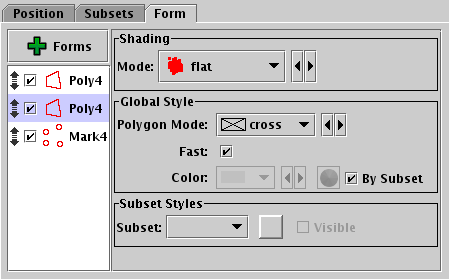
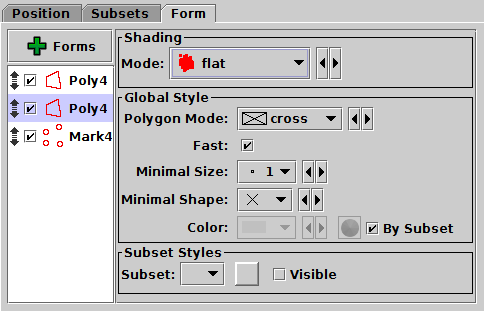
ttools: add polygon replacement marker capability
The Area and Quad plots now have the option to paint a configurable
replacement marker instead of the polygon itself if the polygon
would be too small to see.

Changed region(s): [[0.0, 0.0, 1.0, 1.0]]

diff --git a/ttools/src/main/uk/ac/starlink/ttools/plot2/layer/PolygonOutliner.java b/ttools/src/main/uk/ac/starlink/ttools/plot2/layer/PolygonOutliner.java
@@ -8,6 +8,7 @@ import java.awt.geom.Point2D;
 import java.util.HashMap;
 import java.util.Map;
 import javax.swing.Icon;
+import uk.ac.starlink.ttools.plot.MarkShape;
 import uk.ac.starlink.ttools.plot2.AuxReader;
 import uk.ac.starlink.ttools.plot2.AuxScale;
 import uk.ac.starlink.ttools.plot2.DataGeom;
@@ -16,6 +17,9 @@ import uk.ac.starlink.ttools.plot2.Glyph;
 import uk.ac.starlink.ttools.plot2.PlotUtil;
 import uk.ac.starlink.ttools.plot2.Span;
 import uk.ac.starlink.ttools.plot2.Surface;
+import uk.ac.starlink.ttools.plot2.config.ConfigKey;
+import uk.ac.starlink.ttools.plot2.config.ConfigMeta;
+import uk.ac.starlink.ttools.plot2.config.StyleKeys;
 import uk.ac.starlink.ttools.plot2.data.Area;
 import uk.ac.starlink.ttools.plot2.data.AreaCoord;
 import uk.ac.starlink.ttools.plot2.data.Coord;
@@ -45,7 +49,47 @@ public class PolygonOutliner extends PixOutliner {
 
     private final PolygonMode.Glypher polyGlypher_;
     private final VertexReaderFactory vrfact_;
+    private final int minSize_;
+    private final MarkShape minShape_;
+    private final Glyph pointGlyph_;
     private final Icon icon_;
+
+    /** Config key for the replacement marker threshold size. */
+    public static final ConfigKey<Integer> MINSIZE_KEY =
+        StyleKeys.createMarkSizeKey( 
+            new ConfigMeta( "minsize", "Minimal Size" )
+           .setStringUsage( "<pixels>" )
+           .setShortDescription( "Size of small polygon representation "
+                               + "in pixels" )
+           .setXmlDescription( new String[] {
+                "<p>Defines a threshold size in pixels below which,",
+                "instead of the polygon defined by the other parameters,",
+                "a replacement marker will be painted instead.",
+                "If this is set to zero, then only the shape itself",
+                "will be plotted, but if it is small it may appear as",
+                "only a single pixel.",
+                "By setting a larger value, you can ensure that",
+                "the position of even small polygons is easily visible,",
+                "at the expense of giving them an artificial shape and size.",
+                "This value also defines the size of the replacement markers.",
+                "</p>",
+            } ),
+            1 );
+
+    /** Config key for the replacement marker shape. */
+    public static final ConfigKey<MarkShape> MINSHAPE_KEY =
+        StyleKeys.createMarkShapeKey(
+            new ConfigMeta( "minshape", "Minimal Shape" )
+           .setShortDescription( "Marker shape for very small shapes" )
+           .setXmlDescription( new String[] {
+                "<p>Defines the shape of markers plotted instead of",
+                "the actual polygon shape,",
+                "for polygons that are smaller than the size threshold",
+                "defined by",
+                "<code>" + MINSIZE_KEY.getMeta().getShortName() + "</code>.",
+                "</p>",
+            } ),
+            MarkShape.CROXX );
 
     /* Set up lookup tables for plotting circles. */
     private static final int NVERTEX_CIRCLE = 36;
@@ -81,11 +125,17 @@ public class PolygonOutliner extends PixOutliner {
      * @param  polyGlypher  object that knows how to paint a polygon
      * @param  vrfact   object that knows how to get vertex positions from
      *                  a data tuple
+     * @param  minSize  threshold size for replacement markers
+     * @param  minShape  shape for replacement markers
      */
     private PolygonOutliner( PolygonMode.Glypher polyGlypher,
-                             VertexReaderFactory vrfact ) {
+                             VertexReaderFactory vrfact,
+                             int minSize, MarkShape minShape ) {
         polyGlypher_ = polyGlypher;
         vrfact_ = vrfact;
+        minSize_ = minSize;
+        minShape_ = minShape;
+        pointGlyph_ = MarkForm.createMarkGlyph( minShape, minSize, true );
         icon_ = new MultiPosIcon( 4 ) {
             protected void paintPositions( Graphics g, Point[] positions ) {
                 int np = positions.length;
@@ -123,7 +173,6 @@ public class PolygonOutliner extends PixOutliner {
         final double[] dpos = new double[ ndim ];
         final Point2D.Double gpos = new Point2D.Double();
         final Point igpos = new Point();
-        final Glyph pointGlyph = XYShape.POINT;
         return new ShapePainter() {
             public void paintPoint( Tuple tuple, Color color, Paper paper ) {
                 VertexData vdata = vertReader.readVertexData( tuple );
@@ -231,9 +280,12 @@ public class PolygonOutliner extends PixOutliner {
                  * Otherwise, draw it properly. */
                 if ( gxMax >= bxMin && gxMin <= bxMax &&
                      gyMax >= byMin && gyMin <= byMax ) {
-                    if ( gxMin == gxMax && gyMin == gyMax ) {
-                        paperType.placeGlyph( paper, gxMin, gyMin,
-                                              pointGlyph, color );
+                    if ( gxMax - gxMin <= minSize_ &&
+                         gyMax - gyMin <= minSize_ ) {
+                        int gx = ( gxMax + gxMin ) / 2;
+                        int gy = ( gyMax + gyMin ) / 2;
+                        paperType.placeGlyph( paper, gx, gy,
+                                              pointGlyph_, color );
                     }
                     else {
                         polyGlypher_.placeGlyphs2D( paperType, paper,
@@ -258,7 +310,6 @@ public class PolygonOutliner extends PixOutliner {
         final double[] dpos = new double[ ndim ];
         final GPoint3D gpos = new GPoint3D();
         final Point igpos = new Point();
-        final Glyph pointGlyph = XYShape.POINT;
         return new ShapePainter() {
             public void paintPoint( Tuple tuple, Color color, Paper paper ) {
                 VertexData vdata = vertReader.readVertexData( tuple );
@@ -347,9 +398,12 @@ public class PolygonOutliner extends PixOutliner {
                  * if it's a point. */
                 if ( gxMax >= bxMin && gxMin <= bxMax &&
                      gyMax >= byMin && gyMin <= byMax ) {
-                    if ( gxMin == gxMax && gyMin == gyMax ) {
-                        paperType.placeGlyph( paper, gxMin, gyMin, gz,
-                                              pointGlyph, color );
+                    if ( gxMax - gxMin <= minSize_ &&                  
+                         gyMax - gyMin <= minSize_ ) {
+                        int gx = ( gxMax + gxMin ) / 2;
+                        int gy = ( gyMax + gyMin ) / 2;
+                        paperType.placeGlyph( paper, gx, gy, gz,
+                                              pointGlyph_, color );
                     }
                     else {
                         polyGlypher_.placeGlyphs3D( paperType, paper,
@@ -366,6 +420,8 @@ public class PolygonOutliner extends PixOutliner {
         int code = 434482;
         code = 23 * code + polyGlypher_.hashCode();
         code = 23 * code + vrfact_.hashCode();
+        code = 23 * code + minSize_;
+        code = 23 * code + minShape_.hashCode();
         return code;
     }
 
@@ -374,7 +430,9 @@ public class PolygonOutliner extends PixOutliner {
         if ( o instanceof PolygonOutliner ) {
             PolygonOutliner other = (PolygonOutliner) o;
             return this.polyGlypher_.equals( other.polyGlypher_ )
-                && this.vrfact_.equals( other.vrfact_ );
+                && this.vrfact_.equals( other.vrfact_ )
+                && this.minSize_ == other.minSize_
+                && this.minShape_.equals( other.minShape_ );
         }
         else {
             return false;
@@ -386,12 +444,16 @@ public class PolygonOutliner extends PixOutliner {
      *
      * @param  np  number of vertices
      * @param  polyGlypher  polygon painter
+     * @param  minSize  threshold size for replacement markers
+     * @param  minShape  shape for replacement markers
      * @return  outliner
      */
     public static PolygonOutliner
-            createFixedOutliner( int np, PolygonMode.Glypher polyGlypher ) {
+            createFixedOutliner( int np, PolygonMode.Glypher polyGlypher,
+                                 int minSize, MarkShape minShape ) {
         return new PolygonOutliner( polyGlypher,
-                                    new FixedVertexReaderFactory( np ) );
+                                    new FixedVertexReaderFactory( np ),
+                                    minSize, minShape );
     }
 
     /**
@@ -400,14 +462,18 @@ public class PolygonOutliner extends PixOutliner {
      * @param  coord  coordinate for reading area objects
      * @param  icArea   coordinate index in tuple for area coordinate
      * @param  polyGlypher  polygon painter
+     * @param  minSize  threshold size for replacement markers
+     * @param  minShape  shape for replacement markers
      * @return  outliner
      */
     public static PolygonOutliner
             createPlaneAreaOutliner( AreaCoord<PlaneDataGeom> coord, int icArea,
-                                     PolygonMode.Glypher polyGlypher ) {
+                                     PolygonMode.Glypher polyGlypher,
+                                     int minSize, MarkShape minShape ) {
         return new PolygonOutliner( polyGlypher,
                                     new PlaneAreaVertexReaderFactory( coord,
-                                                                      icArea ));
+                                                                      icArea ),
+                                    minSize, minShape );
     }
 
     /**
@@ -416,14 +482,18 @@ public class PolygonOutliner extends PixOutliner {
      * @param  coord  coordinate for reading area objects
      * @param  icArea   coordinate index in tuple for area coordinate
      * @param  polyGlypher  polygon painter
+     * @param  minSize  threshold size for replacement markers
+     * @param  minShape  shape for replacement markers
      * @return  outliner
      */
     public static PolygonOutliner
            createSkyAreaOutliner( AreaCoord<SkyDataGeom> coord, int icArea,
-                                  PolygonMode.Glypher polyGlypher ) {
+                                  PolygonMode.Glypher polyGlypher,
+                                  int minSize, MarkShape minShape ) {
         return new PolygonOutliner( polyGlypher,
                                     new SkyAreaVertexReaderFactory( coord,
-                                                                    icArea ) );
+                                                                    icArea ),
+                                    minSize, minShape );
     }
 
     /**
@@ -434,17 +504,21 @@ public class PolygonOutliner extends PixOutliner {
      * @param  radialCoord  coordinate for reading radial distance of area
      * @param  icRadial  coordinate index in tuple for radial coordinate
      * @param  polyGlypher  polygon painter
+     * @param  minSize  threshold size for replacement markers
+     * @param  minShape  shape for replacement markers
      * @return  outliner
      */
     public static PolygonOutliner
             createSphereAreaOutliner( AreaCoord<SphereDataGeom> areaCoord,
                                       int icArea,
                                       FloatingCoord radialCoord, int icRadial,
-                                      PolygonMode.Glypher polyGlypher ) {
+                                      PolygonMode.Glypher polyGlypher,
+                                      int minSize, MarkShape minShape ) {
         return new PolygonOutliner(
                 polyGlypher,
                 new SphereAreaVertexReaderFactory( areaCoord, icArea,
-                                                   radialCoord, icRadial ) );
+                                                   radialCoord, icRadial ),
+                minSize, minShape );
     }
 
     /**
@@ -469,7 +543,8 @@ public class PolygonOutliner extends PixOutliner {
                                  PolygonMode.Glypher polyGlypher ) {
         return new PolygonOutliner( polyGlypher,
                                     new ArrayVertexReaderFactory( arrayCoord,
-                                                                  includePos ));
+                                                                  includePos ),
+                                    0, MarkShape.POINT );
     }
 
     /**

diff --git a/ttools/src/main/uk/ac/starlink/ttools/plot2/layer/AreaForm.java b/ttools/src/main/uk/ac/starlink/ttools/plot2/layer/AreaForm.java
@@ -2,6 +2,7 @@ package uk.ac.starlink.ttools.plot2.layer;
 
 import javax.swing.Icon;
 import uk.ac.starlink.ttools.gui.ResourceIcon;
+import uk.ac.starlink.ttools.plot.MarkShape;
 import uk.ac.starlink.ttools.plot2.DataGeom;
 import uk.ac.starlink.ttools.plot2.PlotUtil;
 import uk.ac.starlink.ttools.plot2.config.ConfigKey;
@@ -32,18 +33,24 @@ public abstract class AreaForm<DG extends DataGeom> implements ShapeForm {
     /** Instance for use with Plane plot. */
     public static final AreaForm<PlaneDataGeom> PLANE_INSTANCE =
             new AreaForm<PlaneDataGeom>( AreaCoord.PLANE_COORD, new Coord[0] ) {
-        protected PolygonOutliner createOutliner( PolygonMode.Glypher pg ) {
+        protected PolygonOutliner createOutliner( PolygonMode.Glypher pg,
+                                                  int minSize,
+                                                  MarkShape minShape ) {
             return PolygonOutliner
-                  .createPlaneAreaOutliner( getAreaCoord(), 0, pg );
+                  .createPlaneAreaOutliner( getAreaCoord(), 0, pg,
+                                            minSize, minShape );
         }
     };
 
     /** Instance for use with Sky plot. */
     public static final AreaForm<SkyDataGeom> SKY_INSTANCE =
             new AreaForm<SkyDataGeom>( AreaCoord.SKY_COORD, new Coord[ 0 ] ) {
-        protected PolygonOutliner createOutliner( PolygonMode.Glypher pg ) {
+        protected PolygonOutliner createOutliner( PolygonMode.Glypher pg,
+                                                  int minSize,
+                                                  MarkShape minShape ) {
             return PolygonOutliner
-                  .createSkyAreaOutliner( getAreaCoord(), 0, pg );
+                  .createSkyAreaOutliner( getAreaCoord(), 0, pg,
+                                          minSize, minShape );
         }
     };
 
@@ -51,10 +58,12 @@ public abstract class AreaForm<DG extends DataGeom> implements ShapeForm {
     public static final AreaForm<SphereDataGeom> SPHERE_INSTANCE =
             new AreaForm<SphereDataGeom>( AreaCoord.SPHERE_COORD,
                                           new Coord[] { RADIAL_COORD } ) {
-        protected PolygonOutliner createOutliner( PolygonMode.Glypher pg ) {
+        protected PolygonOutliner createOutliner( PolygonMode.Glypher pg,
+                                                  int minSize,
+                                                  MarkShape minShape ) {
             return PolygonOutliner
                   .createSphereAreaOutliner( getAreaCoord(), 0, RADIAL_COORD, 1,
-                                             pg );
+                                             pg, minSize, minShape );
         }
     };
 
@@ -96,6 +105,11 @@ public abstract class AreaForm<DG extends DataGeom> implements ShapeForm {
             "polygon, circle or point as flagged using the DALI/VOTable",
             "extended type (xtype) marker.",
             "</p>",
+            "<p>Areas smaller than a configurable threshold size",
+            "in pixels are by default represented by a replacement marker,",
+            "so the position of even a very small area",
+            "is still visible on the screen.",
+            "</p>",
         } );
     }
 
@@ -111,23 +125,31 @@ public abstract class AreaForm<DG extends DataGeom> implements ShapeForm {
         return new ConfigKey<?>[] {
             POLYMODE_KEY,
             ISFAST_KEY,
+            PolygonOutliner.MINSIZE_KEY,
+            PolygonOutliner.MINSHAPE_KEY,
         };
     }
 
     public Outliner createOutliner( ConfigMap config ) {
         PolygonMode polyMode = config.get( POLYMODE_KEY );
         boolean isFast = config.get( ISFAST_KEY ).booleanValue();
-        return createOutliner( polyMode.getGlypher( isFast ) );
+        int minSize = config.get( PolygonOutliner.MINSIZE_KEY );
+        MarkShape minShape = config.get( PolygonOutliner.MINSHAPE_KEY );
+        PolygonMode.Glypher polyGlypher = polyMode.getGlypher( isFast );
+        return createOutliner( polyGlypher, minSize, minShape );
     }
 
     /**
      * Constructs a PolygonOutliner from a glypher for this form.
      *
      * @param  polyGlypher  glyph painter
+     * @param  minSize   threshold size for replacment markers
+     * @param  minShape   shape for replacement markers
      * @return   new outliner
      */
     protected abstract PolygonOutliner
-            createOutliner( PolygonMode.Glypher polyGlypher );
+            createOutliner( PolygonMode.Glypher polyGlypher,
+                            int minSize, MarkShape minShape );
 
     /**
      * Returns the coordinate associated with this form.

diff --git a/ttools/src/main/uk/ac/starlink/ttools/plot2/layer/PolygonForms.java b/ttools/src/main/uk/ac/starlink/ttools/plot2/layer/PolygonForms.java
@@ -11,6 +11,7 @@ import javax.swing.JLabel;
 import javax.swing.JList;
 import javax.swing.DefaultListCellRenderer;
 import uk.ac.starlink.ttools.gui.ResourceIcon;
+import uk.ac.starlink.ttools.plot.MarkShape;
 import uk.ac.starlink.ttools.plot2.DataGeom;
 import uk.ac.starlink.ttools.plot2.PlotUtil;
 import uk.ac.starlink.ttools.plot2.config.BooleanConfigKey;
@@ -255,6 +256,11 @@ public class PolygonForms {
                 "<code>" + POLYMODE_KEY.getMeta().getShortName() + "</code>",
                 "option.",
                 "</p>",
+                "<p>Polygons smaller than a configurable threshold size",
+                "in pixels are by default represented by a replacement marker,",
+                "so the position of even a very small polygon",
+                "is still visible on the screen.",
+                "</p>",
             } );
         }
 
@@ -274,14 +280,19 @@ public class PolygonForms {
             return new ConfigKey<?>[] {
                 POLYMODE_KEY,
                 ISFAST_KEY,
+                PolygonOutliner.MINSIZE_KEY,
+                PolygonOutliner.MINSHAPE_KEY,
             };
         }
 
         public Outliner createOutliner( ConfigMap config ) {
             PolygonMode polyMode = config.get( POLYMODE_KEY );
             boolean isFast = config.get( ISFAST_KEY ).booleanValue();
+            int minSize = config.get( PolygonOutliner.MINSIZE_KEY );
+            MarkShape minShape = config.get( PolygonOutliner.MINSHAPE_KEY );
             PolygonMode.Glypher polyGlypher = polyMode.getGlypher( isFast );
-            return PolygonOutliner.createFixedOutliner( np_, polyGlypher );
+            return PolygonOutliner
+                  .createFixedOutliner( np_, polyGlypher, minSize, minShape );
         }
     }
 
